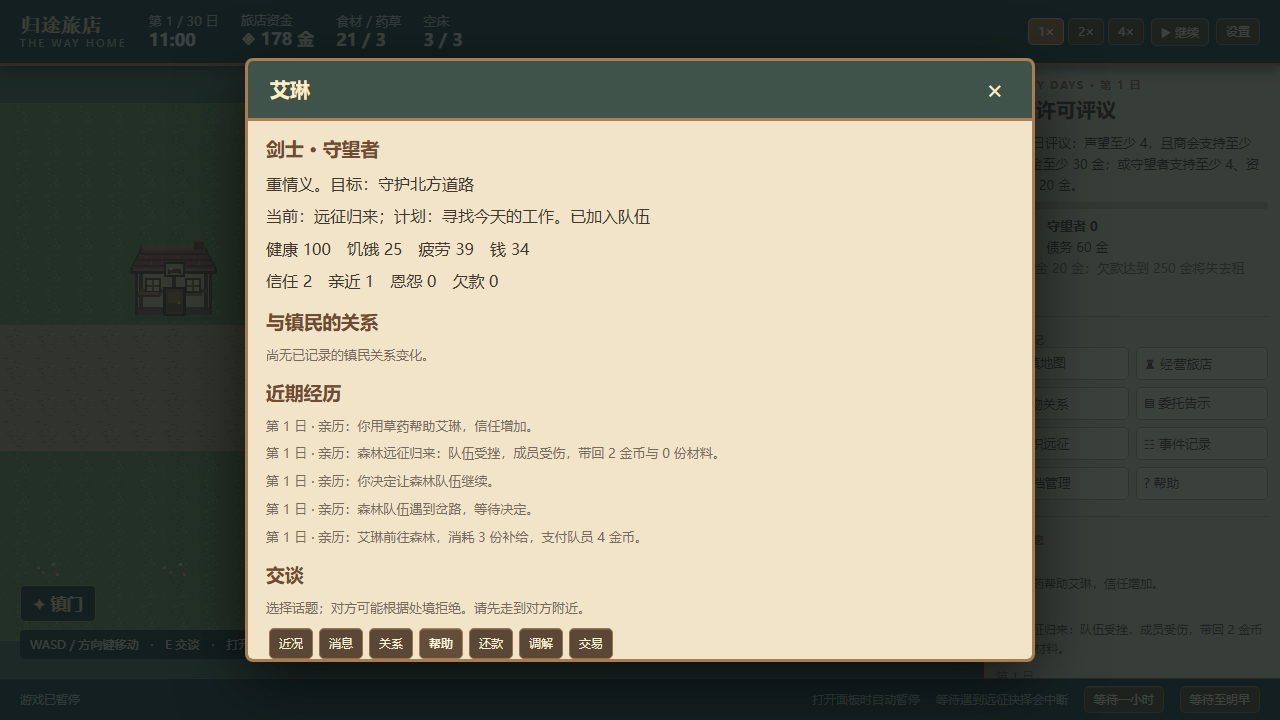
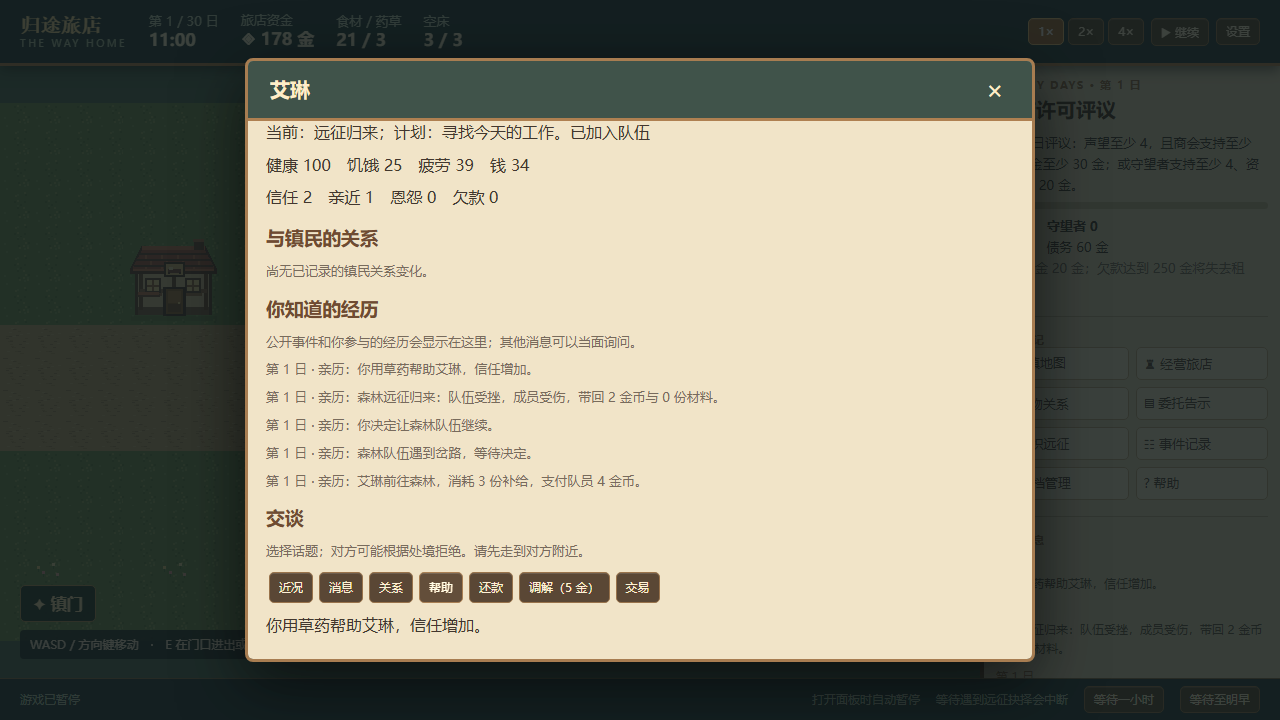
Verify resident contract and causal gameplay in browser

Changed region(s): [[0.125, 0.1528, 0.5625, 0.9167], [0.1875, 0.5806, 0.2188, 0.6111]]

diff --git a/tests/e2e/causal.spec.ts b/tests/e2e/causal.spec.ts
@@ -6,12 +6,14 @@ async function close(page:Page){await page.getByRole('button',{name:'关闭',exa
 async function travel(page:Page,place:string){await open(page,'⌖ 小镇地图');const card=page.locator('.card').filter({has:page.getByRole('heading',{name:place,exact:true})});await card.getByRole('button',{name:'前往'}).click()}
 async function person(page:Page,name:string){await open(page,'♧ 人物关系');await page.locator('.card').filter({has:page.getByRole('heading',{name:new RegExp(`^${name} `)})}).getByRole('button',{name:'查看人物'}).click()}
 
-test('同一存档不同房价影响入住和信任',async({page})=>{test.setTimeout(90000);await begin(page);
+test('同一存档不同房价影响入住、信任与招募',async({page})=>{test.setTimeout(90000);await page.clock.setFixedTime(new Date(100004));await begin(page);
  await open(page,'▣ 存档管理');await page.locator('.row').filter({hasText:'存档 1'}).getByRole('button',{name:'保存'}).click();await expect(page.locator('.toast')).toHaveText('存档已保存。');await close(page);
  await open(page,'♜ 经营旅店');for(let i=0;i<3;i++)await page.getByRole('button',{name:'降价'}).click();await expect(page.getByText('房价：5 金')).toBeVisible();await close(page);
  for(let i=0;i<2;i++)await page.getByRole('button',{name:'等待至明早'}).click();await open(page,'☷ 事件记录');await expect(page.locator('.log').getByText(/住进旅店/).first()).toBeVisible();await page.screenshot({path:'docs/evidence/causal-low-price.png'});await close(page);
+ await travel(page,'集市');await open(page,'♜ 经营旅店');await page.getByRole('button',{name:'购买 5 食材'}).click();await close(page);await travel(page,'冒险者公会');await open(page,'⚑ 组织远征');await page.getByLabel('艾琳',{exact:false}).check();await page.getByRole('button',{name:'准备出发'}).click();await expect(page.getByText(/队伍前往 森林/)).toBeVisible();await close(page);await open(page,'☷ 事件记录');await expect(page.locator('.log').getByText(/支付队员 2 金币/).first()).toBeVisible();await page.screenshot({path:'docs/evidence/causal-low-recruit.png'});await close(page);
  await open(page,'▣ 存档管理');await page.locator('.row').filter({hasText:'存档 1'}).getByRole('button',{name:'载入'}).click();await open(page,'♜ 经营旅店');for(let i=0;i<12;i++)await page.getByRole('button',{name:'涨价'}).click();await expect(page.getByText('房价：20 金')).toBeVisible();await close(page);
- for(let i=0;i<2;i++)await page.getByRole('button',{name:'等待至明早'}).click();await open(page,'☷ 事件记录');await expect(page.locator('.log').getByText(/住进旅店/)).toHaveCount(0);await page.screenshot({path:'docs/evidence/causal-high-price.png'});
+ for(let i=0;i<2;i++)await page.getByRole('button',{name:'等待至明早'}).click();await open(page,'☷ 事件记录');await expect(page.locator('.log').getByText(/住进旅店/)).toHaveCount(0);await page.screenshot({path:'docs/evidence/causal-high-price.png'});await close(page);
+ await travel(page,'集市');await open(page,'♜ 经营旅店');await page.getByRole('button',{name:'购买 5 食材'}).click();await close(page);await travel(page,'冒险者公会');await open(page,'⚑ 组织远征');await expect(page.getByLabel('艾琳',{exact:false})).toBeDisabled();await expect(page.getByText('疲劳超过 85').first()).toBeVisible();await page.screenshot({path:'docs/evidence/causal-high-recruit.png'});
 });
 
 test('初始补给争执可由当事人调解并改变关系',async({page})=>{await begin(page);await travel(page,'冒险者公会');await person(page,'洛恩');await expect(page.getByText(/卷入补给争议/)).toBeVisible();await page.getByRole('button',{name:'调解',exact:true}).click();await expect(page.getByText(/你支付 5 金币帮助洛恩解决补给争议/).last()).toBeVisible();await page.screenshot({path:'docs/evidence/causal-mediation.png'});});

diff --git a/tests/e2e/npc-contract.spec.ts b/tests/e2e/npc-contract.spec.ts
@@ -1,0 +1,42 @@
+import {test,expect,type Page} from '@playwright/test';
+
+test.setTimeout(120_000);
+async function close(page:Page){await page.getByRole('button',{name:'关闭',exact:true}).click()}
+async function hour(page:Page){
+ const clock=page.locator('.topbar .stat').first();const before=await clock.innerText();
+ await page.getByRole('button',{name:'等待一小时'}).click();
+ await expect.poll(()=>clock.innerText()).not.toBe(before);
+}
+
+test('居民通过真实时间推进承接、出发与完成诊所委托',async({page})=>{
+ const errors:string[]=[];page.on('pageerror',e=>errors.push(e.message));
+ await page.setViewportSize({width:1280,height:720});
+ // 固定浏览器当前时间只选择普通新游戏的种子 101，不写入任何游戏状态。
+ await page.clock.setFixedTime(new Date(101));
+ await page.goto('/');await page.getByRole('button',{name:'开始新旅程'}).click();
+ await expect(page.getByText('第 1 / 30 日')).toBeVisible();
+ for(let day=2;day<=10;day++){
+  await page.getByRole('button',{name:'等待至明早'}).click();
+  await expect(page.getByText(`第 ${day} / 30 日`)).toBeVisible();
+ }
+ // 在第 10 日结束，观察居民已经接单但仍需前往镇门。
+ for(let i=0;i<16;i++)await hour(page);
+ await expect(page.getByText('第 11 / 30 日')).toBeVisible();
+ await page.getByRole('button',{name:'▤ 委托告示'}).click();
+ const card=page.locator('.modal-body .card').filter({has:page.getByRole('heading',{name:/补给诊所/})});
+ await expect(card).toContainText('他人进行中');await expect(card).toContainText('承接：米娅');
+ await expect(card).toContainText('正在前往镇门');
+ await page.screenshot({path:'docs/evidence/npc-contract-in-progress.png'});await close(page);
+ // 行进及四小时采购都由世界正常逐小时运行。
+ for(let i=0;i<5;i++)await hour(page);
+ await page.getByRole('button',{name:'▤ 委托告示'}).click();
+ await expect(card).toContainText('他人完成');await expect(card).toContainText('承接：米娅');
+ await page.screenshot({path:'docs/evidence/npc-contract.png'});await close(page);
+ await page.getByRole('button',{name:'☷ 事件记录'}).click();
+ const log=page.locator('.modal-body .log');
+ await expect(log.getByText(/米娅接下「补给诊所」/)).toBeVisible();
+ await expect(log.getByText(/米娅从镇门出发，自付 12 金币/)).toBeVisible();
+ await expect(log.getByText(/米娅向诊所交付四份草药，领取 24 金币/)).toBeVisible();
+ await page.screenshot({path:'docs/evidence/npc-contract-log.png'});
+ expect(errors).toEqual([]);
+});
